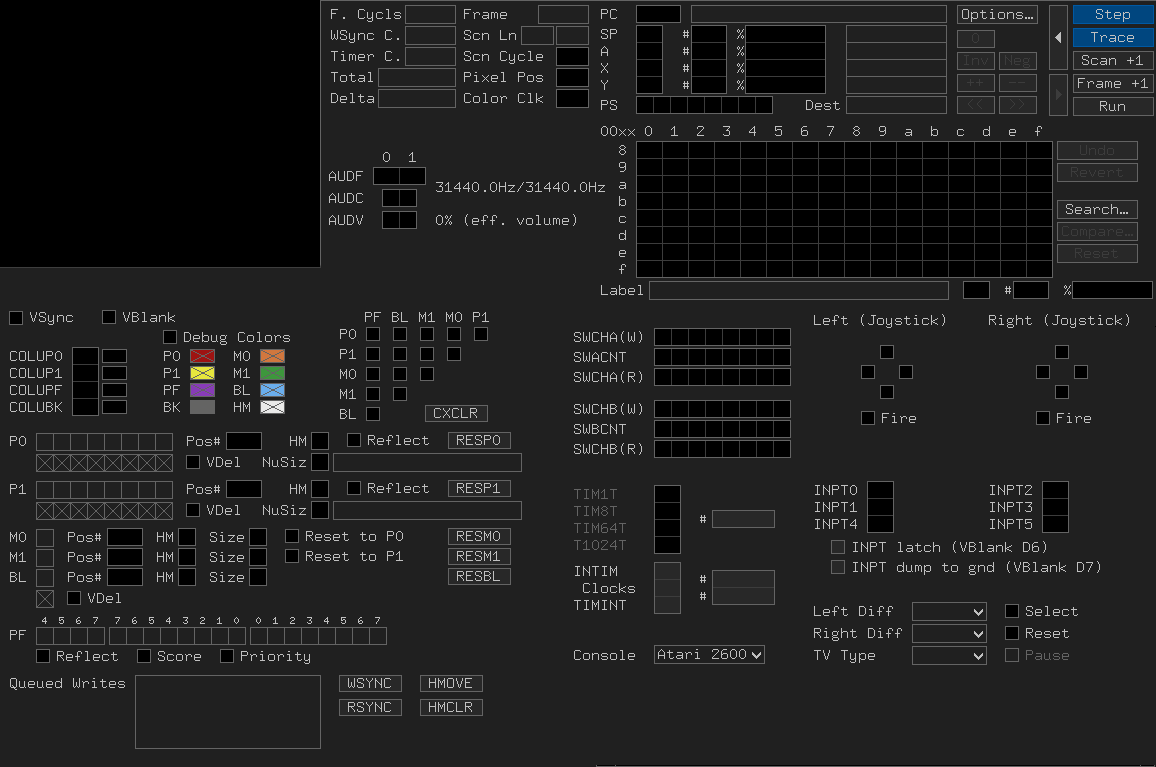
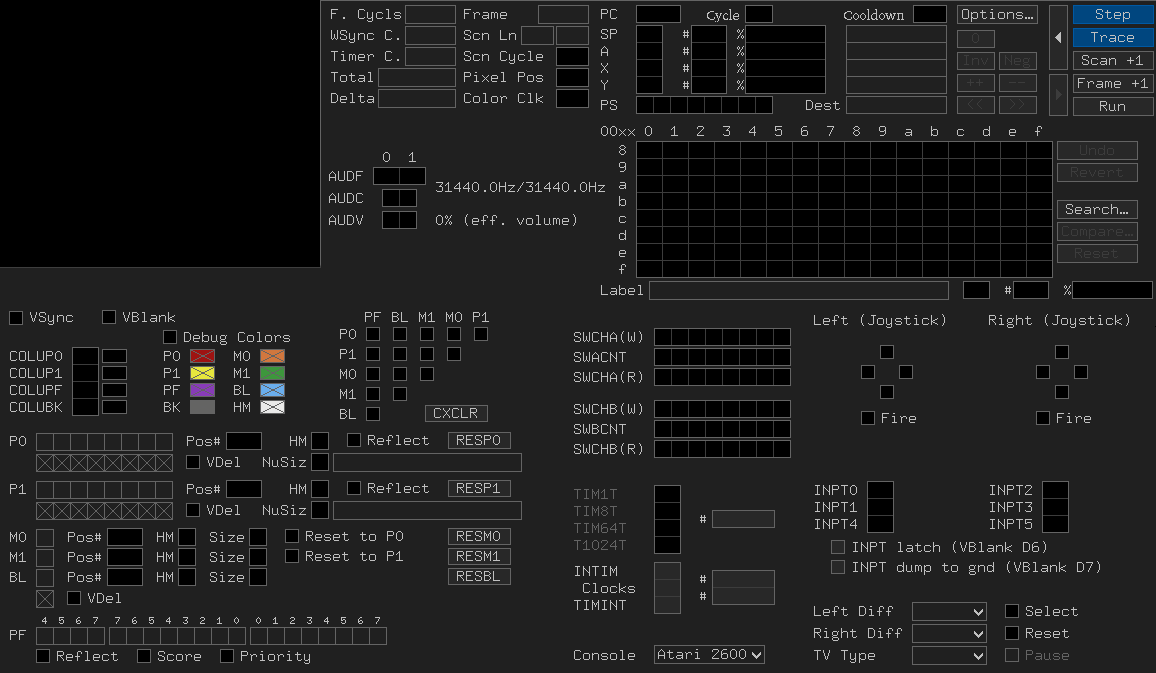
example11 passes

diff --git a/src/video.c b/src/video.c
@@ -1,4 +1,6 @@
 
+#include <stdio.h>
+#include <stdlib.h>
 #include <stdint.h>
 #include <stdbool.h>
 
@@ -63,7 +65,6 @@ Missile1 missile1;
 Ball ball;
 Playfield playfield;
 
-bool hmove_is_active;
 int video_priority;
 bool vsync;
 bool vblank;
@@ -119,6 +120,7 @@ void video_VBLANK_write ( uint8_t value ) {
     vblank7 = value>>7 & 1;
     if (vblank6==0) {
         // disable latches to logic true
+        puts("VBLANK6==0 not impl yet");
     }
 }
 
@@ -131,7 +133,22 @@ void video_WSYNC_write ( void ) {
 
 
 void video_RSYNC_write ( void ) {
-
+    if (tv.x < 158) {
+        player0.x = (player0.x + 157 - tv.x) % 160;
+        player1.x = (player1.x + 157 - tv.x) % 160;
+        missile0.x = (missile0.x + 157 - tv.x) % 160;
+        missile1.x = (missile1.x + 157 - tv.x) % 160;
+        ball.x = (ball.x + 157 - tv.x) % 160;
+    }
+    tv.x = 157;
+    // if (tv.x < 156) {
+    //     player0.x = (player0.x + 155 - tv.x) % 160;
+    //     player1.x = (player1.x + 155 - tv.x) % 160;
+    //     missile0.x = (missile0.x + 155 - tv.x) % 160;
+    //     missile1.x = (missile1.x + 155 - tv.x) % 160;
+    //     ball.x = (ball.x + 155 - tv.x) % 160;
+    // }
+    // tv.x = 155;
 }
 
 
@@ -377,10 +394,12 @@ void video_PF2_write ( uint8_t value ) {
 // https://www.youtube.com/watch?v=sJFnWZH5FXc see 12:47. mentions 4px, 5px, 6px
 void video_RESP0_write ( void ) {
     if (player0.size > 8) {
-        player0.x = (tv.x<160-9) ? tv.x+9 : 2;
+        player0.x = (tv.x<160) ? (tv.x+6)%160 : 4;
+        // player0.x = (tv.x+2<160) ? (tv.x+2+6)%160 : 4;
     }
     else {
-        player0.x = (tv.x<160-8) ? tv.x+8 : 2;
+        player0.x = (tv.x<160) ? (tv.x+5)%160 : 3;
+        // player0.x = (tv.x+2<160) ? (tv.x+2+5)%160 : 3;
     }
 }
 
@@ -388,29 +407,34 @@ void video_RESP0_write ( void ) {
 
 void video_RESP1_write ( void ) {
     if (player1.size > 8) {
-        player1.x = (tv.x<160-9) ? tv.x+9 : 2;
+        player1.x = (tv.x<160) ? (tv.x+6)%160 : 4;
+        // player1.x = (tv.x<158) ? (tv.x+8)%160 : 4;
     }
     else {
-        player1.x = (tv.x<160-8) ? tv.x+8 : 2;
+        player1.x = (tv.x<160) ? (tv.x+5)%160 : 3;
+        // player1.x = (tv.x<158) ? (tv.x+7)%160 : 3;
     }
 }
 
 
 
 void video_RESM0_write ( void ) {
-    missile0.x = (tv.x<160-7) ? tv.x+7 : 1;
+    missile0.x = (tv.x<160) ? (tv.x+4)%160 : 2;
+    // missile0.x = (tv.x<158) ? (tv.x+6)%160 : 2;
 }
 
 
 
 void video_RESM1_write ( void ) {
-    missile1.x = (tv.x<160-7) ? tv.x+7 : 1;
+    missile1.x = (tv.x<160) ? (tv.x+4)%160 : 2;
+    // missile1.x = (tv.x<158) ? (tv.x+6)%160 : 2;
 }
 
 
 
 void video_RESBL_write ( void ) {
-    ball.x = (tv.x<160-7) ? tv.x+7 : 1;
+    ball.x = (tv.x<160) ? (tv.x+4)%160 : 2;
+    // ball.x = (tv.x<158) ? (tv.x+6)%160 : 2;
 }
 
 
@@ -565,7 +589,13 @@ void video_RESMP1_write ( uint8_t value ) {
 
 
 void video_HMOVE_write ( void ) {
-    hmove_is_active = true;
+    // chatgpt claims repeated HMOVE calls don't accumulate dx, but it actually does
+    // dont trust chatgpt, analyze working emulators instead
+    player0.x = (player0.x + player0.dx + 160) % 160;
+    player1.x = (player1.x + player1.dx + 160) % 160;
+    missile0.x = (missile0.x + missile0.dx + 160) % 160;
+    missile1.x = (missile1.x + missile1.dx + 160) % 160;
+    ball.x = (ball.x + ball.dx + 160) % 160;
 }
 
 
@@ -919,25 +949,16 @@ int video_decode_color( uint8_t color, int tv_standard ) {
 
 
 int video_player0_effective_x ( void) {
-    if (hmove_is_active) {
-        return (player0.x + player0.dx + 160) % 160;
-    }
-    else return player0.x;
+    return player0.x;
 }
 
 int video_player1_effective_x ( void) {
-    if (hmove_is_active) {
-        return (player1.x + player1.dx + 160) % 160;
-    }
-    else return player1.x;
+    return player1.x;
 }
 
 int video_missile0_effective_x ( void) {
     if (missile0.is_locked_on_player) {
         return (video_player0_effective_x() + (player0.size - missile0.size) / 2 ) % 160;
-    }
-    else if (hmove_is_active) {
-        return (missile0.x + missile0.dx + 160) % 160;
     }
     else return missile0.x;
 }
@@ -946,15 +967,9 @@ int video_missile1_effective_x ( void) {
     if (missile1.is_locked_on_player) {
         return (video_player1_effective_x() + (player1.size - missile1.size) / 2 ) % 160;
     }
-    else if (hmove_is_active) {
-        return (missile1.x + missile1.dx + 160) % 160;
-    }
     else return missile1.x;
 }
 
 int video_ball_effective_x ( void) {
-    if (hmove_is_active) {
-        return (ball.x + ball.dx + 160) % 160;
-    }
-    else return ball.x;
+    return ball.x;
 }

diff --git a/src/frontend.c b/src/frontend.c
@@ -12,11 +12,11 @@
 // #include "raygui.h"
 
 
-TV tv = {0};
+TV tv = { .x=160, .y=0, .standard=TV_NTSC };
 
 int frames_so_far = 0;
 int color_clocks_this_frame = 0;
-int cpuCooldown = 0;
+int cpuCooldown = 2;
 
 Color rgbaToRaylib( int rgba ) {
     return (Color) {
@@ -55,8 +55,8 @@ int prepare_game( char *gamefile_path, int TV_standard, int cartridge_type ) {
 
 void draw_frame(void) {
     for (int y= 0; y<WINDOW_HEIGHT_PX; y++) {
-        for (int x = 0; x<WINDOW_WIDTH_PX; x++) {
-            DrawRectangle(2*x, 2*y, 2, 2, tv.pixels[y][x]);
+        for (int x = 0; x<160; x++) {
+            DrawRectangle(4*x, 2*y, 4, 2, tv.pixels[y][x]);
         }
     }
 }
@@ -83,8 +83,8 @@ void draw_debug_frame(void) {
 
     // screen
     for (int y= 0; y<WINDOW_HEIGHT_PX; y++) {
-        for (int x = 0; x<WINDOW_WIDTH_PX; x++) {
-            DrawRectangle(x, y, 1, 1, tv.pixels[y][x]);
+        for (int x = 0; x<160; x++) {
+            DrawRectangle(2*x, y, 2, 1, tv.pixels[y][x]);
         }
     }
 
@@ -326,10 +326,15 @@ void draw_debug_frame(void) {
     DrawTextEx(font, buf, (Vector2){405, 5}, fontSize, fontSpacing, fontColor);
     sprintf(buf, "%d", tv.y );
     DrawTextEx(font, buf, (Vector2){521, 26}, fontSize, fontSpacing, fontColor);
-    sprintf(buf, "%d", tv.x );
-    DrawTextEx(font, buf, (Vector2){556, 89}, fontSize, fontSpacing, fontColor);
-    sprintf(buf, "%d", tv.x-68 );
+    int pixel_pos = tv.x<160 ? tv.x : tv.x-228;
+    sprintf(buf, "%d", pixel_pos );
     DrawTextEx(font, buf, (Vector2){556, 68}, fontSize, fontSpacing, fontColor);
+    sprintf(buf, "%d", pixel_pos+68 );
+    DrawTextEx(font, buf, (Vector2){556, 89}, fontSize, fontSpacing, fontColor);
+    sprintf(buf, "%d", cpu.cycle );
+    DrawTextEx(font, buf, (Vector2){745, 5}, fontSize, fontSpacing, fontColor);
+    sprintf(buf, "%d", cpuCooldown );
+    DrawTextEx(font, buf, (Vector2){913, 5}, fontSize, fontSpacing, fontColor);
     
     
     
@@ -342,7 +347,9 @@ void tick_atari(void) {
     // determine what pixel to draw
     int rgba = video_calculate_pixel(tv.x);
     Color color = rgbaToRaylib(rgba);
-    tv.pixels[tv.y][tv.x] = color;
+    if (tv.x < 160 && tv.y < 262) {
+        tv.pixels[tv.y][tv.x] = color;
+    }
 
     // collisions
     video_calculate_collisions(tv.x);
@@ -351,9 +358,9 @@ void tick_atari(void) {
     tv.x++;
     color_clocks_this_frame++;
     
-    if (tv.x==160) {
+    if (tv.x==160 && wsync) {
         wsync = false;
-        hmove_is_active = false;
+        cpuCooldown = 3;
     }
     else if (tv.x==228) {
         tv.x=0; tv.y++;
@@ -389,12 +396,12 @@ int main(void) {
 
 
     #ifdef ATARI_DEBUG_MODE
-        InitWindow(1156, 767, "");
+        InitWindow(1156, 673, "");
     #else
-        InitWindow(WINDOW_WIDTH_PX*2, WINDOW_HEIGHT_PX*2, "");
+        InitWindow(WINDOW_WIDTH_PX*4, WINDOW_HEIGHT_PX*2, "");
     #endif
 
-    int er = prepare_game("/home/korsan/proj/atari2600emu/atari_tests/missiles.a26", TV_NTSC, CARTRIDGE_4K);
+    int er = prepare_game("/home/korsan/proj/atari2600emu/atari_tests/example11.a26", TV_NTSC, CARTRIDGE_4K);
     if (er) return 1;
 
     SetTargetFPS(60);
@@ -417,19 +424,19 @@ int main(void) {
                 else if( IsKeyPressed(KEY_TWO) || IsKeyPressedRepeat(KEY_TWO) ) {
                     do {
                         tick_atari();
-                    } while( cpuCooldown != 0 || cpu.cycle != 1 );
+                    } while( !(cpuCooldown == 2 && cpu.cycle == 1 && !wsync) );
                 }
                 // advance one scanline
                 else if( IsKeyPressed(KEY_THREE) || IsKeyPressedRepeat(KEY_THREE) ) {
                     do {
                         tick_atari();
-                    } while( tv.x != 0 );
+                    } while( !(tv.x == 0) ); // cooldown might not be 2 here
                 }
                 // advance one frame
                 else if( IsKeyPressed(KEY_FOUR) || IsKeyPressedRepeat(KEY_FOUR) ) {
                     do {
                         tick_atari();
-                    } while( tv.y != 0 || tv.x != 0 );
+                    } while( !(tv.y == 0 && tv.x == 0) );
                 }
                 
                 // for (int i = 0; i<WINDOW_WIDTH_PX*WINDOW_HEIGHT_PX; i++) {
@@ -438,7 +445,7 @@ int main(void) {
                 draw_debug_frame();
                 input_register_inputs();
             #else
-                for (int i = 0; i<WINDOW_WIDTH_PX*WINDOW_HEIGHT_PX; i++) {
+                for (int i = 0; i<62000; i++) {
                     tick_atari();
                 }
                 draw_frame();

diff --git a/src/atari2600emulator.h b/src/atari2600emulator.h
@@ -6,7 +6,7 @@
     #include <stdbool.h>
     #include <raylib.h>
 
-    #define ATARI_DEBUG_MODE
+    // #define ATARI_DEBUG_MODE
 
     typedef struct {
         uint8_t a;
@@ -203,12 +203,11 @@
     extern bool vsync;
     extern bool vblank;
     extern bool wsync;
-    extern bool hmove_is_active;
     extern int video_priority;
     extern uint8_t debug_nusiz0, debug_nusiz1, debug_hmp0, debug_hmp1, debug_hmm0, debug_hmm1, debug_hmbl;
 
 
-    #define WINDOW_WIDTH_PX 228
+    #define WINDOW_WIDTH_PX 160
     #define WINDOW_HEIGHT_PX 262
 
     typedef Color Scanline[WINDOW_WIDTH_PX];

diff --git a/src/cpu.c b/src/cpu.c
@@ -120,6 +120,7 @@ void cpu_go_to_reset_vector( void ) {
     uint8_t low = memory_read(0xFFFC);
     uint8_t high = memory_read(0xFFFD);
     cpu.pc = high<<8 | low;
+    cpu.flag_v = 1; // stella does it this way
     cpu.cycle = 1;
 }
 
